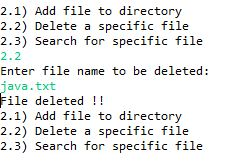
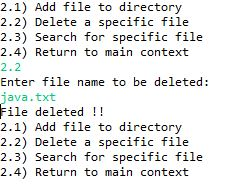
add option2.4

Changed region(s): [[0.0, 0.0, 0.917, 0.9568]]

diff --git a/src/Assignment1.java b/src/Assignment1.java
@@ -65,7 +65,7 @@ public class Assignment1 {
 
 	private static void option2() {
 		String[] options = { "2.1) Add file to directory", "2.2) Delete a specific file",
-				"2.3) Search for specific file" };
+				"2.3) Search for specific file", "2.4) Return to main context" };
 		Scanner scanner = new Scanner(System.in);
 		double option;
 		printQ2Menu(options);
@@ -77,6 +77,8 @@ public class Assignment1 {
 				option2_2();
 			} else if (option == 2.3) {
 				option2_3();
+			} else if (option == 2.4) {
+				option2_4();
 			} else {
 				System.out.println("Please enter correct option");
 				option2();
@@ -156,26 +158,30 @@ public class Assignment1 {
 			} else {
 				System.out.println("File does not exists.");
 			}
-
-			boolean choice = true;
-
-			while (choice) {
-				System.out.println("Do you wish to go back to main menu? Y/N");
-				choice = scanner.nextLine().equalsIgnoreCase("Y") ? true : false;
-
-				if (choice) {
-					System.out.println(choice);
-					Assignment1.main(new String[0]);
-					break;
-				} else {
-					option2();
-					break;
-				}
-			}
-
+			option2();
 		} catch (Exception ex) {
 			ex.printStackTrace();
 		}
+	}
+
+	private static void option2_4() {
+		Scanner scanner = new Scanner(System.in);
+		boolean choice = true;
+
+		while (choice) {
+			System.out.println("Do you wish to go back to main menu? Y/N");
+			choice = scanner.nextLine().equalsIgnoreCase("Y") ? true : false;
+
+			if (choice) {
+				System.out.println(choice);
+				Assignment1.main(new String[0]);
+				break;
+			} else {
+				option2();
+				break;
+			}
+		}
+
 	}
 
 }
